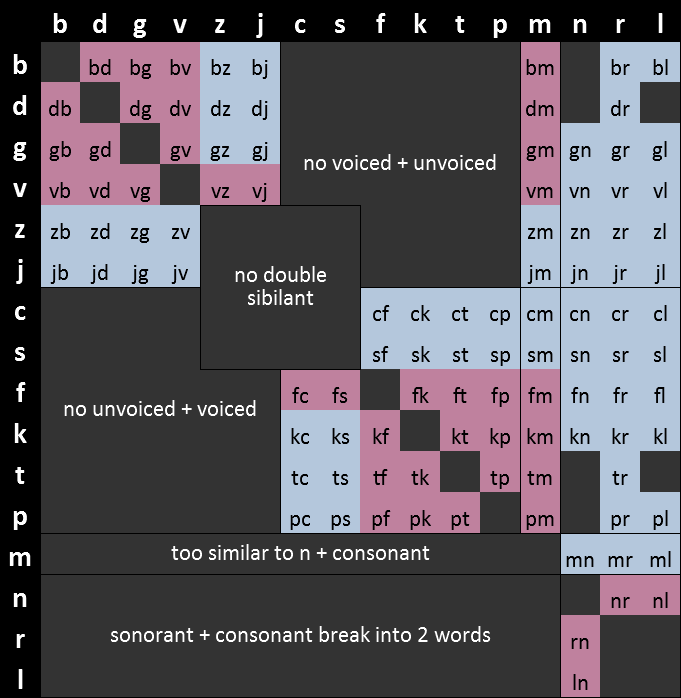
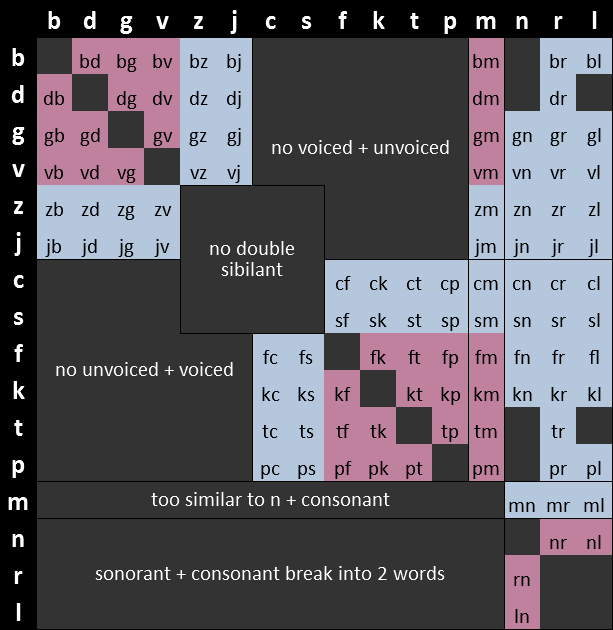
0.43.2 - f/v + sonorant initial pairs + voc changes

diff --git a/node/scripts/all_non_init_pairs.js b/node/scripts/all_non_init_pairs.js
@@ -15,10 +15,12 @@ let pairs_medial_available = [
 
 single.forEach((first) =>
 	single.forEach((second) => {
-		try {
-			camxes.parse(first + second + 'a');
-			pairs_initial.push(first + second);
-		} catch (e) {}
+		if (first != second) {
+			try {
+				camxes.parse(first + second + 'a');
+				pairs_initial.push(first + second);
+			} catch (e) {}
+		}
 	})
 );
 
@@ -28,15 +30,17 @@ console.log(pairs_initial.map(pair => `'${pair}'`).join(', '));
 
 single.forEach((first) =>
 	single.forEach((second) => {
-		try {
-			camxes.parse('sa' + first + second + 'a');
-			if (
-                !pairs_initial.includes(first + second) &&
-                !(sonorants.includes(first) && !sonorants.includes(second))
-            ) {
-				pairs_medial.push(first + second);
-			}
-		} catch (e) {}
+		if (first != second) {
+			try {
+				camxes.parse('sa' + first + second + 'a');
+				if (
+					!pairs_initial.includes(first + second) &&
+					!(sonorants.includes(first) && !sonorants.includes(second))
+				) {
+					pairs_medial.push(first + second);
+				}
+			} catch (e) {}
+		}
 	})
 );
 

diff --git a/node/src/root_generator.js b/node/src/root_generator.js
@@ -109,7 +109,7 @@ function generate_CCVhV() {
 	return word;
 }
 
-const vowel = [ 'a', 'e', 'o', 'i', 'u' ];
+const vowel = [ 'i', 'e', 'a', 'o', 'u' ];
 const sonorant = [ 'n', 'r', 'l' ];
 const single = [ 'b', 'c', 'd', 'f', 'g', 'j', 'k', 'm', 'p', 's', 't', 'v', 'z' ];
 const initial_pair = [
@@ -128,6 +128,8 @@ const initial_pair = [
 	'dj',
 	'dz',
 	'dr',
+	'fc',
+	'fs',
 	'fn',
 	'fl',
 	'fr',
@@ -167,6 +169,8 @@ const initial_pair = [
 	'tc',
 	'ts',
 	'tr',
+	'vj',
+	'vz',
 	'vn',
 	'vl',
 	'vr',
@@ -188,11 +192,9 @@ const medial_pair = [
 	'dg',
 	'dm',
 	'dv',
-	'fc',
 	'fk',
 	'fm',
 	'fp',
-	'fs',
 	'ft',
 	'gb',
 	'gd',
@@ -213,9 +215,7 @@ const medial_pair = [
 	'vb',
 	'vd',
 	'vg',
-	'vj',
 	'vm',
-	'vz',
 	'nl',
 	'nr',
 	'ln',
